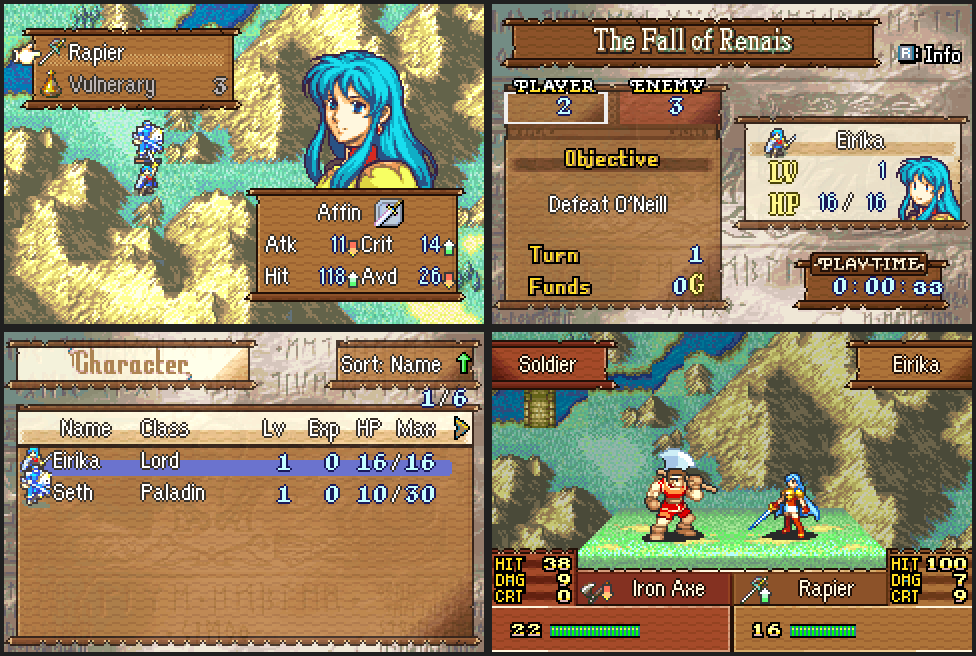
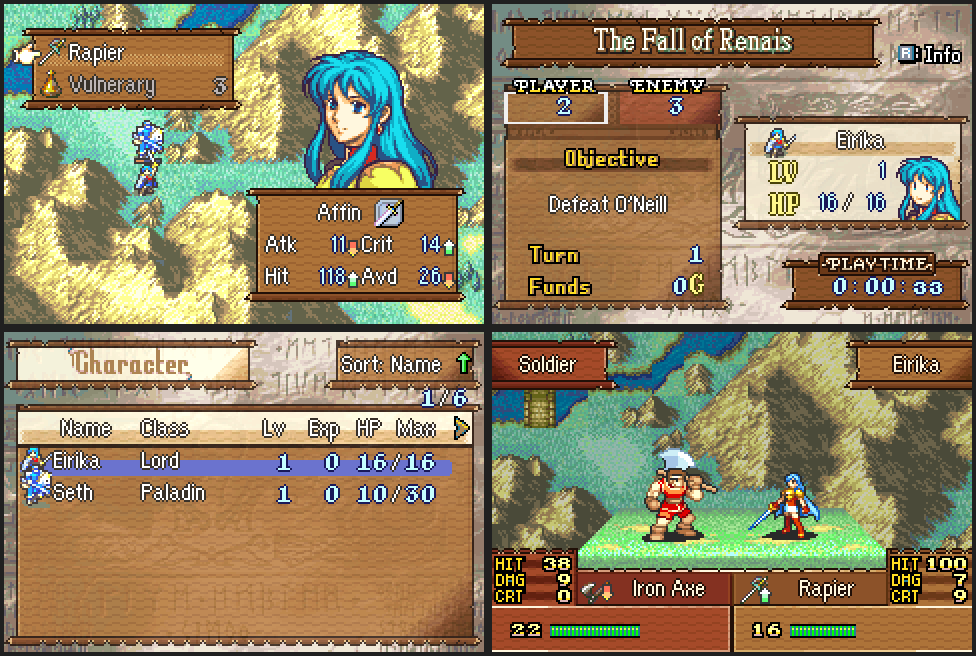
Widen the Wood play-time box and fix its Y outline
- The clock overran the right edge of the wood play-time box. The box is now 96 pixels wide instead of 80 and starts 6 pixels further left, so the time sits on the board. StatusScreenSpriteDraw_Loop is replaced so wood mode can draw it with a 64x32 plus 32x32 sprite; other styles draw vanilla's sprite as before. The PLAY TIME tab moves to the middle of the wider box.
- The "Y" in PLAY TIME lost part of its outline. Vanilla outlines that letter with palette 9 entry 1, a second copy of the plate colour, and the generator only looked for entry 10. The letters' drop shadow now uses a mid tone, as vanilla's grey does, instead of the light shade that read as a dash after the Y.

Claude-Session: https://claude.ai/code/session_01Tw4Msv6aWGsnaGTgRodNJ7

Changed region(s): [[0.7992, 0.3659, 1.0, 0.4878], [0.8607, 0.4573, 0.8914, 0.4878]]

diff --git a/Kernel/Wizardry/VeslyUI/C_Code.c b/Kernel/Wizardry/VeslyUI/C_Code.c
@@ -1278,6 +1278,96 @@ void StatusScreenSpriteDraw_Init(struct ChapterStatusProc * proc)
         ApplyPalette(sChapterTitlePalWood, 0x13);
 }
 
+/*
+ * Wood's play-time box is 96 pixels wide instead of 80, so the clock fits on
+ * the board: a 64x32 and a 32x32 object, starting 6 pixels further left.
+ */
+extern u16 CONST_DATA Sprite_ChapterStatus_ChapterBanner[];
+extern u16 CONST_DATA Sprite_ChapterStatus_PlaytimeBanner[];
+extern u16 CONST_DATA Sprite_ChapterStatus_ChapterName[];
+extern u16 CONST_DATA Sprite_ChapterStatus_FactionSelector[];
+extern u16 CONST_DATA Sprite_ChapterStatus_PlayerLabel[];
+extern u16 CONST_DATA Sprite_ChapterStatus_EnemyLabel[];
+extern u16 CONST_DATA Sprite_ChapterStatus_TurnLabel[];
+extern u16 CONST_DATA Sprite_ChapterStatus_FundsLabel[];
+extern u16 CONST_DATA Sprite_ChapterStatus_ObjectiveLabel[];
+extern u16 CONST_DATA Sprite_ChapterStatus_PlayCountLabel[];
+
+static const u16 sSprite_PlaytimeBannerWood[] = {
+    2,
+    0x4000, 0xC000 + (-6 & 0x1FF), 0x90, // 64x32
+    0x0000, 0x8000 + 58, 0x98,           // 32x32
+};
+
+static const u16 * GetPlaytimeBannerSprite(void)
+{
+    if (GetUI_id() == 4)
+        return sSprite_PlaytimeBannerWood;
+    return Sprite_ChapterStatus_PlaytimeBanner;
+}
+
+LYN_REPLACE_CHECK(StatusScreenSpriteDraw_Loop);
+void StatusScreenSpriteDraw_Loop(struct ChapterStatusProc * proc)
+{
+    int i;
+
+    struct ChapterStatusProc * parent = proc->proc_parent;
+
+    PutSprite(4, 4, 3, Sprite_ChapterStatus_ChapterBanner, OAM2_CHR(0x180) + OAM2_LAYER(1) + OAM2_PAL(8));
+    PutSprite(4, 150, 124, GetPlaytimeBannerSprite(), OAM2_CHR(0x180) + OAM2_LAYER(1) + OAM2_PAL(9));
+
+    if (parent->unk_3f == 0)
+    {
+        PutSprite(4, 4, 11, Sprite_ChapterStatus_ChapterName, OAM2_CHR(0x380) + OAM2_LAYER(1) + OAM2_PAL(3));
+    }
+
+    // Draw rectangle around current selected faction
+    PutSprite(
+        4, parent->unitIndex * 56, 44, Sprite_ChapterStatus_FactionSelector, OAM2_CHR(0x180) + OAM2_LAYER(1) + OAM2_PAL(7));
+
+    PutSprite(4, 8, 37, Sprite_ChapterStatus_PlayerLabel, 0);
+    PutSprite(4, 64, 37, Sprite_ChapterStatus_EnemyLabel, 0);
+    PutSprite(4, 18, 115, Sprite_ChapterStatus_TurnLabel, 0);
+    PutSprite(4, 18, 131, Sprite_ChapterStatus_FundsLabel, 0);
+    PutSprite(4, 28, 67, Sprite_ChapterStatus_ObjectiveLabel, 0);
+
+    // Draw unit name
+    for (i = 0; i < 2; i++)
+    {
+        PutSprite(4, 160 + (i * 32), 60, gObject_32x16, OAM2_CHR(0x3C0) + OAM2_PAL(10) + (i * 4));
+    }
+
+    // Draw unit level
+    PutSprite(4, 180, 75, gObject_32x16, OAM2_CHR(0x3D0) + OAM2_PAL(10));
+
+    // Draw unit HP
+    for (i = 0; i < 2; i++)
+    {
+        PutSprite(4, 156 + (i * 32), 91, gObject_32x16, OAM2_CHR(0x3D4) + OAM2_PAL(10) + (i * 4));
+    }
+
+    PutTime(TILEMAP_LOCATED(gBG0TilemapBuffer, 19, 16), TEXT_COLOR_SYSTEM_BLUE, GetGameClock(), 0);
+
+    BG_EnableSyncByMask(BG0_SYNC_BIT);
+
+    if (parent->units[parent->unitIndex] != NULL)
+    {
+        PutUnitSprite(4, 136, 61, parent->units[parent->unitIndex]);
+    }
+
+    SyncUnitSpriteSheet();
+
+    if (parent->timesCompleted != 0)
+    {
+        if (!(gPlaySt.chapterStateBits & PLAY_FLAG_POSTGAME))
+        {
+            PutSprite(4, 219, 3, Sprite_ChapterStatus_PlayCountLabel, 0);
+        }
+    }
+
+    UpdateStatusFactionSelectorGlow(parent);
+}
+
 LYN_REPLACE_CHECK(StartUiGoldBox);
 void StartUiGoldBox(ProcPtr parent)
 {

diff --git a/Kernel/Wizardry/VeslyUI/png/Wood/generate_wood.py b/Kernel/Wizardry/VeslyUI/png/Wood/generate_wood.py
@@ -479,8 +479,11 @@ def save(image, palette, name):
 # windows' planks, chips and broken corners. The rest of the sheet is unused on
 # that screen and stays as is.
 BANNER = (0, 0, 24, 4)        # x, y, width, height in tiles
-PLAYTIME = (16, 4, 10, 4)
-PLAYTIME_LABEL = (11, 2, 55, 8)   # "PLAY TIME" letters inside the box, pixels
+# Wood's play-time box is 12 tiles wide (vanilla's is 10) so the clock fits;
+# StatusScreenSpriteDraw_Loop in C_Code.c draws it with a wider sprite.
+PLAYTIME = (16, 4, 12, 4)
+PLAYTIME_LABEL = (11, 2, 55, 8)   # "PLAY TIME" letters in vanilla's box, pixels
+PLAYTIME_LABEL_SHIFT = 10         # moves the label to the middle of the wider box
 
 # Interchangeable tiles, as in the DrawUiFrame replacement in C_Code.c.
 TOP_BEAMS = [0x03, 0x04, 0x11, 0x12, 0x13, 0x31, 0x32, 0x33]
@@ -503,7 +506,7 @@ SIGN_PALETTE = [
     "A86C3A",  # 12 edge highlight
     "E8C890",  # 13 raw wood, light
     "3A200E",  # 14 unused
-    "B07A44",  # 15 unused
+    "9A6438",  # 15 lettering drop shadow
 ]
 # Frame tile colours (menu palette indices) -> SIGN_PALETTE.
 MENU_TO_SIGN = {0: 0, D: 1, 1: 10, 5: 13, 6: 13, 7: 9, 8: 8, 9: 12,
@@ -546,7 +549,8 @@ def draw_playtime_label(px, vanilla_px, area):
     """A small plank tab over the box's top beam, carrying vanilla's letters."""
     ax, ay = area[0] * 8, area[1] * 8
     lx, ly, lw, lh = PLAYTIME_LABEL
-    left, top, right, bottom = lx - 2, ly - 2, lx + lw + 1, ly + lh + 1
+    shift = PLAYTIME_LABEL_SHIFT
+    left, top, right, bottom = lx + shift - 2, ly - 2, lx + shift + lw + 1, ly + lh + 1
     for y in range(top, bottom + 1):
         for x in range(left, right + 1):
             edge = x in (left, right) or y in (top, bottom)
@@ -557,18 +561,19 @@ def draw_playtime_label(px, vanilla_px, area):
     px[ax + left + 1, ay + top + 1] = 1
     px[ax + right - 1, ay + bottom - 1] = 1
     px[ax + right - 2, ay + top + 1] = 9
-    # Vanilla letters, in OBJ palette 9 order: 11 and 12 are the light
-    # face, 13 and 14 its shading, and 10 the dark plate around them.
-    letter = {11: 10, 12: 10, 13: 11, 14: 11}
+    # Vanilla letters, in OBJ palette 9 order: 11 and 12 are the light face,
+    # 13 its shading and 14 a mid-tone drop shadow. Their outline is the
+    # plate's dark colour, which palette 9 holds twice (1 and 10); the "Y"
+    # uses 1.
+    letter = {11: 10, 12: 10, 13: 11, 14: 15}
     for y in range(ly, ly + lh):
         for x in range(lx, lx + lw):
             v = vanilla_px[ax + x, ay + y]
             if v in letter:
-                px[ax + x, ay + y] = letter[v]
-            elif v == 10 and any(
-                    vanilla_px[ax + x + dx, ay + y + dy] in letter
-                    for dx in (-1, 0, 1) for dy in (-1, 0, 1)):
-                px[ax + x, ay + y] = 1
+                px[ax + x + shift, ay + y] = letter[v]
+            elif any(vanilla_px[ax + x + dx, ay + y + dy] in letter
+                     for dx in (-1, 0, 1) for dy in (-1, 0, 1)):
+                px[ax + x + shift, ay + y] = 1
 
 
 def play_status():

diff --git a/Documentation/Features/VeslyUIStyles.md b/Documentation/Features/VeslyUIStyles.md
@@ -80,7 +80,7 @@ Each getter in `C_Code.c` indexes a 5-entry table by the style ID. A style that 
 - Every edge that meets the transparent backdrop gets a black outline.
 - Ornament tiles (curls, crests, the battle gem) are replaced with the plain tile of the same role (`PLAIN_COPIES`, `BATTLE_COPIES`).
 - Corner tiles become broken plank ends (`CORNERS`, `BATTLE_CORNERS`, `CORNER_ART`).
-- The status screen's chapter title banner and play-time box are rebuilt from the finished frame tiles, so they match the windows. The play-time box keeps vanilla's letters on a plank tab (`play_status`).
+- The status screen's chapter title banner and play-time box are rebuilt from the finished frame tiles, so they match the windows. The play-time box keeps vanilla's letters on a plank tab (`play_status`). It is 96 pixels wide instead of 80 so the clock fits on the board, so `StatusScreenSpriteDraw_Loop` in `C_Code.c` draws it with a wider sprite in wood mode.
 - Beam and edge tiles get chips, cracks and grain streaks (`EDGE_CHIPS`); other tiles get an occasional small dent.
 
 In wood mode, `DrawUiFrame` (replaced in `C_Code.c`) picks each top beam, bottom beam and left edge tile from a set of interchangeable ones by position. So the chips along a window don't repeat every 8 pixels. The tile sets in `C_Code.c` must match the `EDGE_CHIPS` tiles.
@@ -107,7 +107,7 @@ To retune the look, edit the colour lists at the top of the script and rerun it.
 | Prep screens | `PrepInitGfxHook`, `Decompress_Img_PrepItemUseScreen`, `DrawFundsSprite_Init`, `PutImg_PrepPopupWindow`, `PrepUiPalHook_2`, `PrepUiPalHook_3` in [`C_Code.c`](../../Kernel/Wizardry/VeslyUI/C_Code.c) | Prep art, funds/items sprite and palettes |
 | Shop | `StartUiGoldBox`, `StartUiGoldBox_New` in [`C_Code.c`](../../Kernel/Wizardry/VeslyUI/C_Code.c) | Gold box sprite and palette |
 | Battle screen | `EfxPrepareScreenFx`, `ekrDispUPMain`, `GetBPal_8802558` in [`C_Code.c`](../../Kernel/Wizardry/VeslyUI/C_Code.c) | Battle frame, name/item boxes, faction palettes |
-| Status screen banners | `ChapterStatus_ShowAllLayers`, `StatusScreenSpriteDraw_Init` in [`C_Code.c`](../../Kernel/Wizardry/VeslyUI/C_Code.c) | Chapter title banner, play-time box and chapter name colours |
+| Status screen banners | `ChapterStatus_ShowAllLayers`, `StatusScreenSpriteDraw_Init`, `StatusScreenSpriteDraw_Loop` in [`C_Code.c`](../../Kernel/Wizardry/VeslyUI/C_Code.c) | Chapter title banner, play-time box and chapter name colours |
 | Faction palettes | `GetFactionBattleForecastFramePalette`, `StatusScreenUIPal_Hook`, `sub_80BE5B4` in [`C_Code.c`](../../Kernel/Wizardry/VeslyUI/C_Code.c) | Forecast, status screen and world map tints |
 | Minimug box | `GetMMBWindowPaletteRow` in [`ModularMinimugBox.c`](../../Kernel/Wizardry/ModularMinimugBox/ModularMinimugBox.c) | Map HUD unit window palette per style |
 | Assets | [`VeslyUI_Installer.event`](../../Kernel/Wizardry/VeslyUI/VeslyUI_Installer.event), [`png/`](../../Kernel/Wizardry/VeslyUI/png/) | Style flags, art and palettes |
